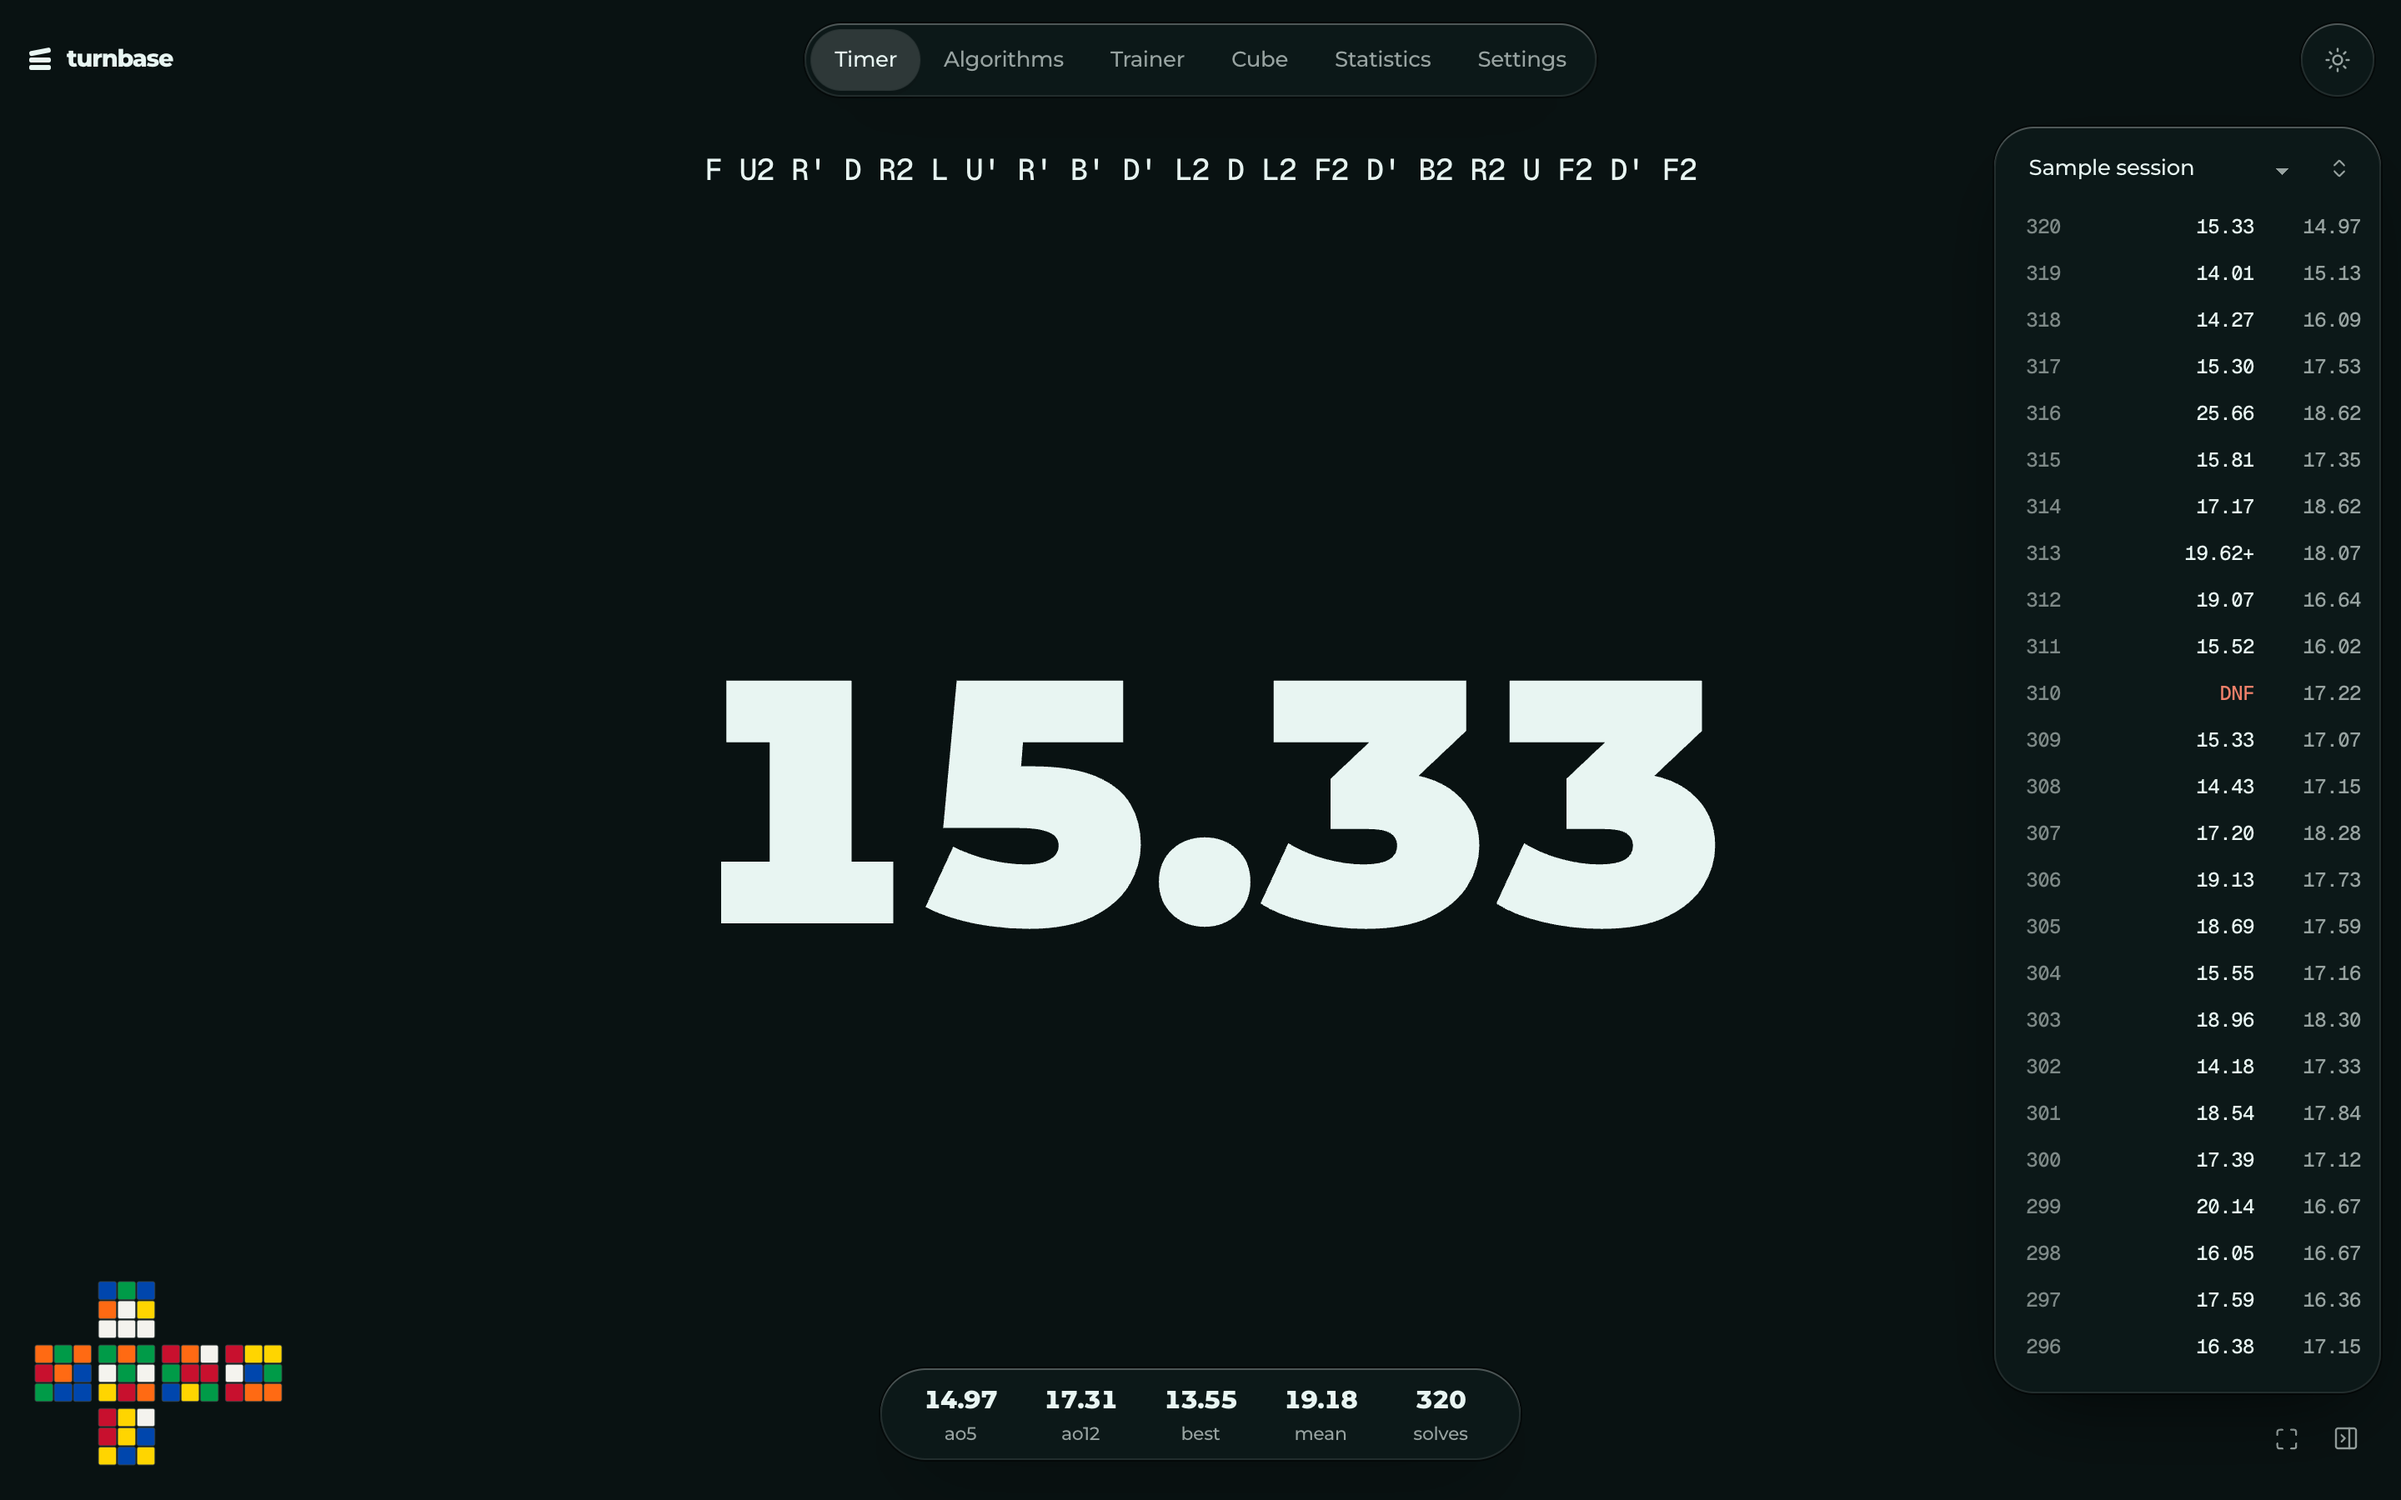
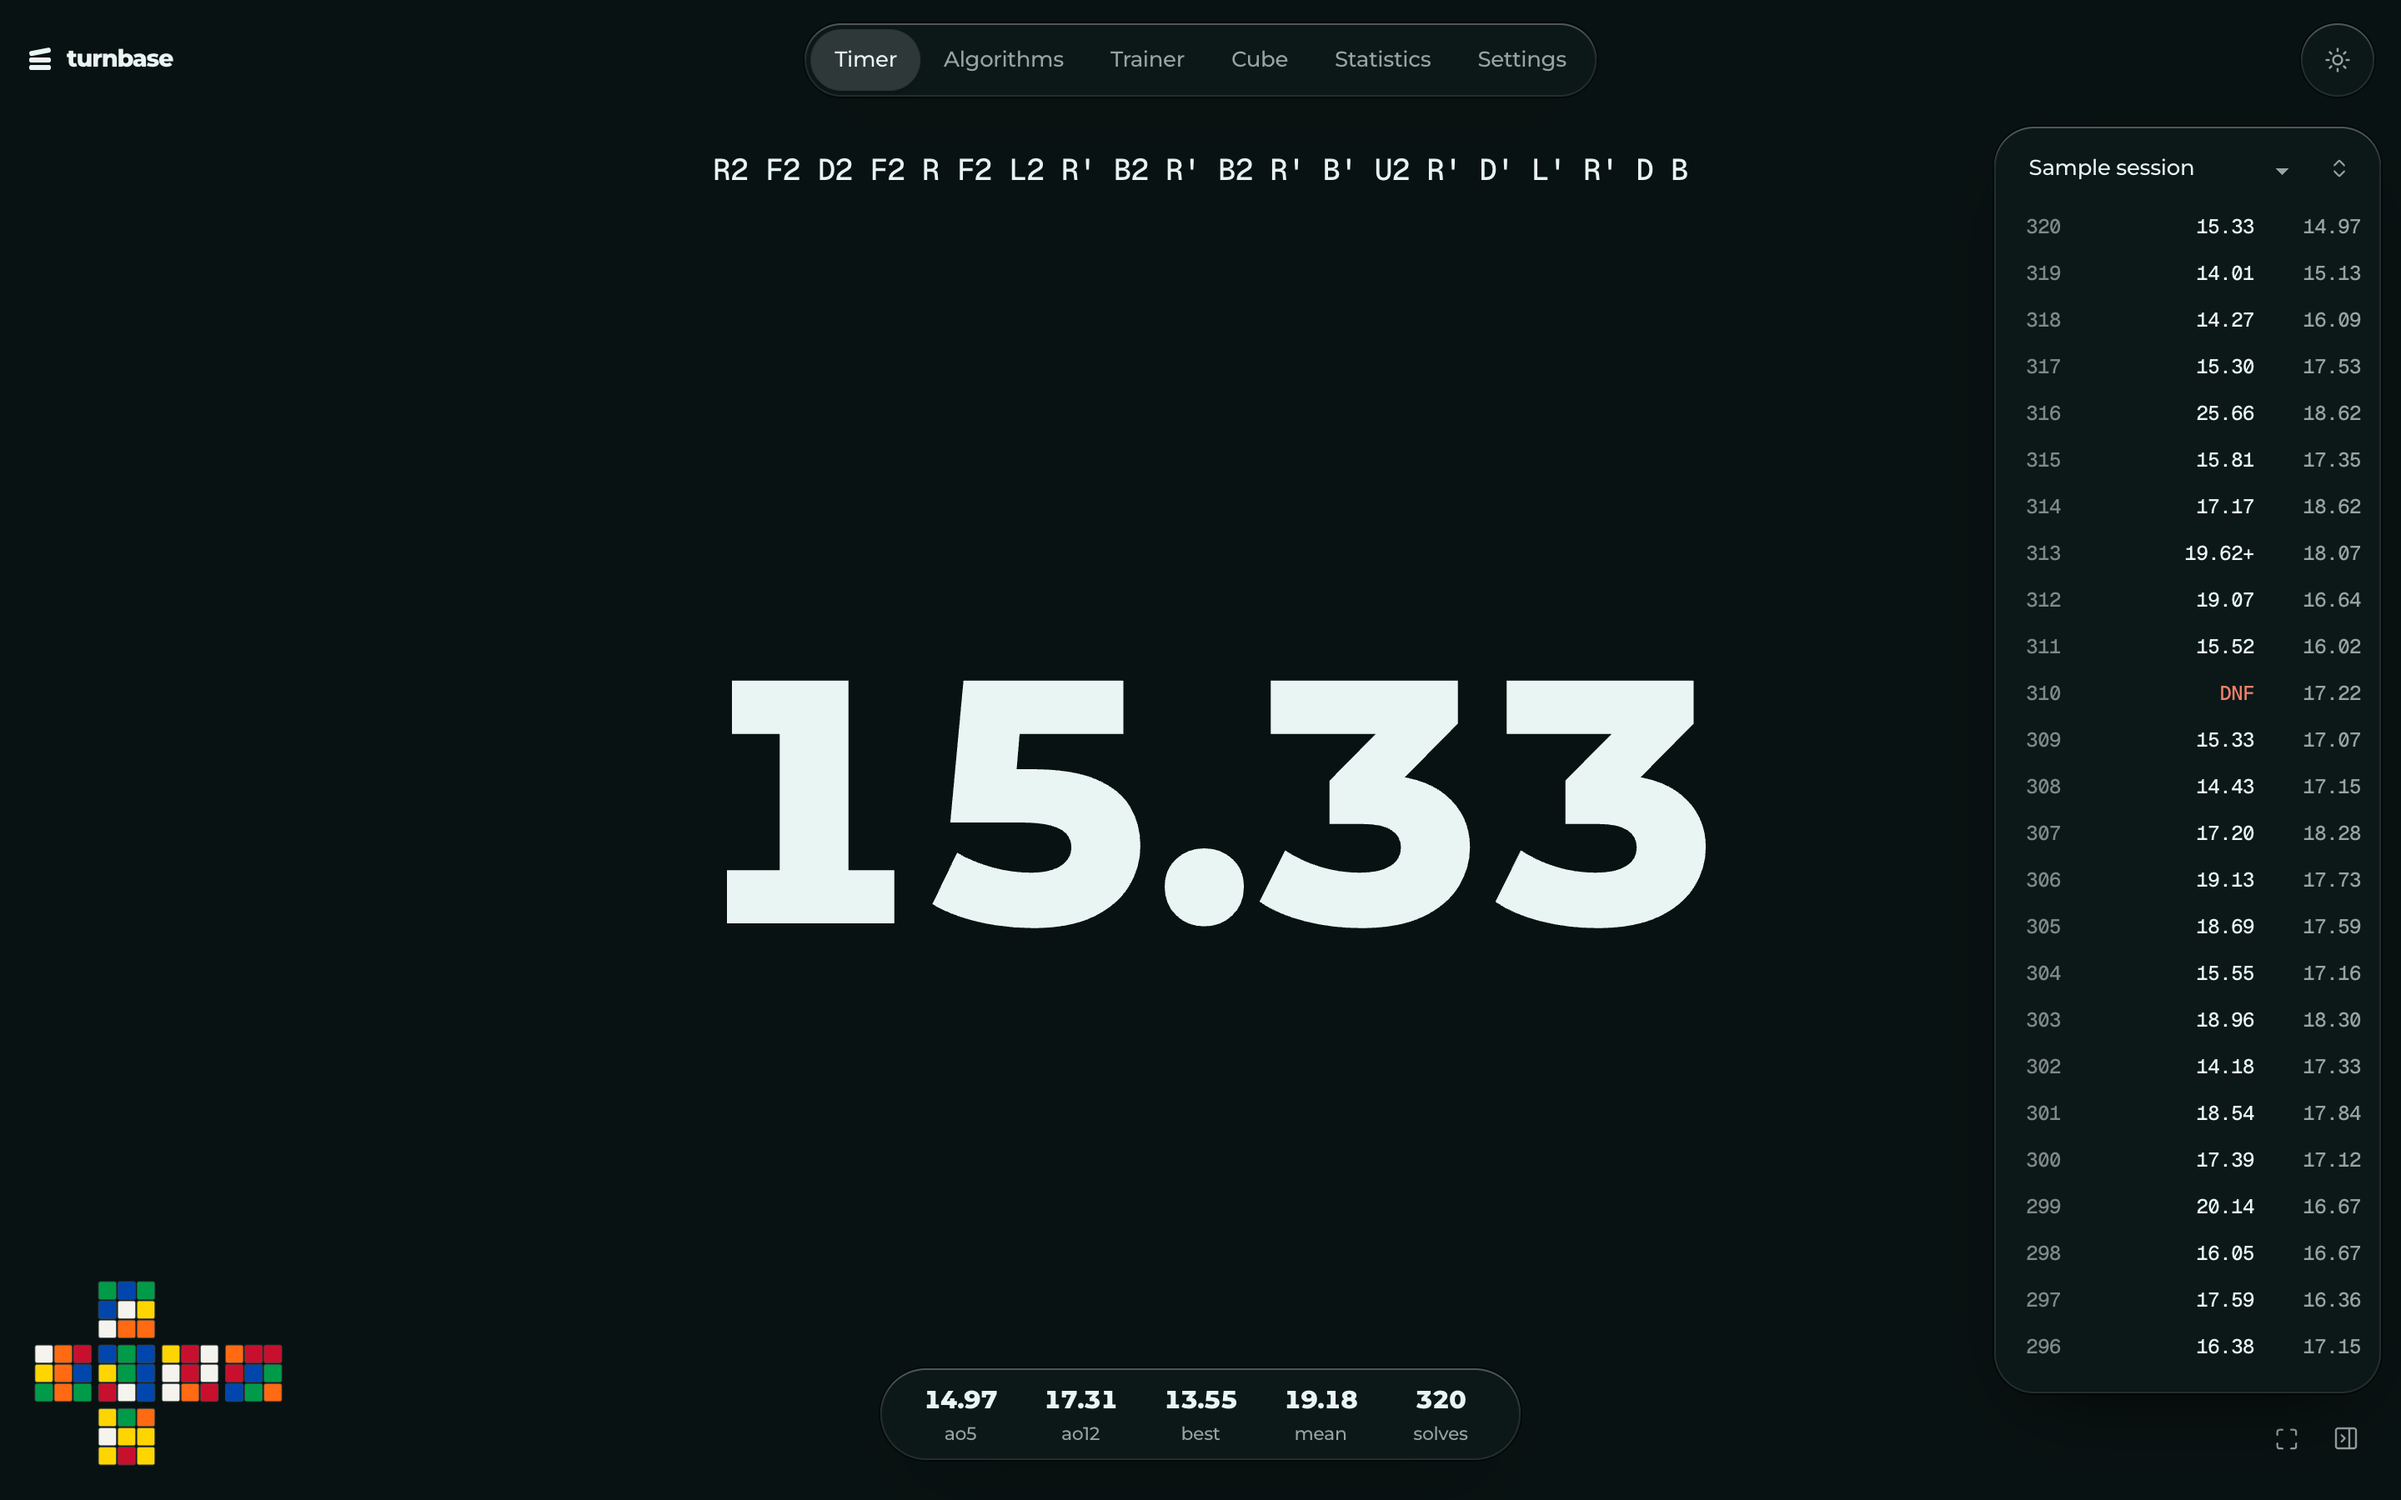
Make the timer digits slightly lighter

diff --git a/e2e/look.spec.js b/e2e/look.spec.js
@@ -147,14 +147,14 @@ test('holding turns the digits red, ready turns them green, with no glow behind'
   await page.keyboard.press('Escape');
 });
 
-test('the timer is Montserrat Black, and its digits do not change width', async ({ page }) => {
+test('the timer is Montserrat ExtraBold, and its digits do not change width', async ({ page }) => {
   await openTimer(page);
   await page.evaluate(() => document.fonts.ready);
   const digits = page.getByTestId('timer-digits');
   const style = await digits.evaluate((el) => ({ family: getComputedStyle(el).fontFamily, weight: getComputedStyle(el).fontWeight }));
   expect(style.family).toContain('Montserrat');
-  expect(style.weight).toBe('900');
-  expect(await page.evaluate(() => document.fonts.check('900 40px "Montserrat Variable"', '0123456789'))).toBe(true);
+  expect(style.weight).toBe('800');
+  expect(await page.evaluate(() => document.fonts.check('800 40px "Montserrat Variable"', '0123456789'))).toBe(true);
   const widths = await digits.evaluate((el) =>
     '0123456789'.split('').map((d) => {
       const probe = el.cloneNode();

diff --git a/src/styles/index.css b/src/styles/index.css
@@ -124,7 +124,7 @@ h3 {
 .display-num {
   font-family: var(--font-ui);
   font-variant-numeric: tabular-nums;
-  font-weight: 900;
+  font-weight: 800;
   letter-spacing: -0.04em;
 }
 
@@ -584,7 +584,7 @@ button:disabled {
   position: relative;
   font-family: var(--font-ui);
   font-variant-numeric: tabular-nums;
-  font-weight: 900;
+  font-weight: 800;
   font-size: calc(clamp(3.9rem, 14.5cqw, 13rem) * var(--timer-scale, 1));
   line-height: 1;
   letter-spacing: -0.02em;

diff --git a/README.md b/README.md
@@ -137,7 +137,7 @@ While a solve runs, the page drops everything else. The navigation and panels ar
 
 ### The look, and frame rate
 
-Big numbers and page titles are set in Montserrat Black, with fixed-width digits so a running time never jitters. Panels are translucent, with backdrop blur, raised saturation and a lit top edge. This imitates liquid glass rather than refracting light through it: true edge refraction is costly and only some browsers support it, so it was left out in favour of frame rate. At 0% the Glass setting makes panels solid, which is the lightest option for older devices.
+The timer and other big numbers are set in Montserrat ExtraBold, with fixed-width digits so a running time never jitters, and page titles in Montserrat Black. Panels are translucent, with backdrop blur, raised saturation and a lit top edge. This imitates liquid glass rather than refracting light through it: true edge refraction is costly and only some browsers support it, so it was left out in favour of frame rate. At 0% the Glass setting makes panels solid, which is the lightest option for older devices.
 
 Selection thumbs, switches and panels move on a spring, using compositor-only properties where possible. Off-screen library sections skip rendering, and each page's code starts loading when the pointer heads for its link.
 
